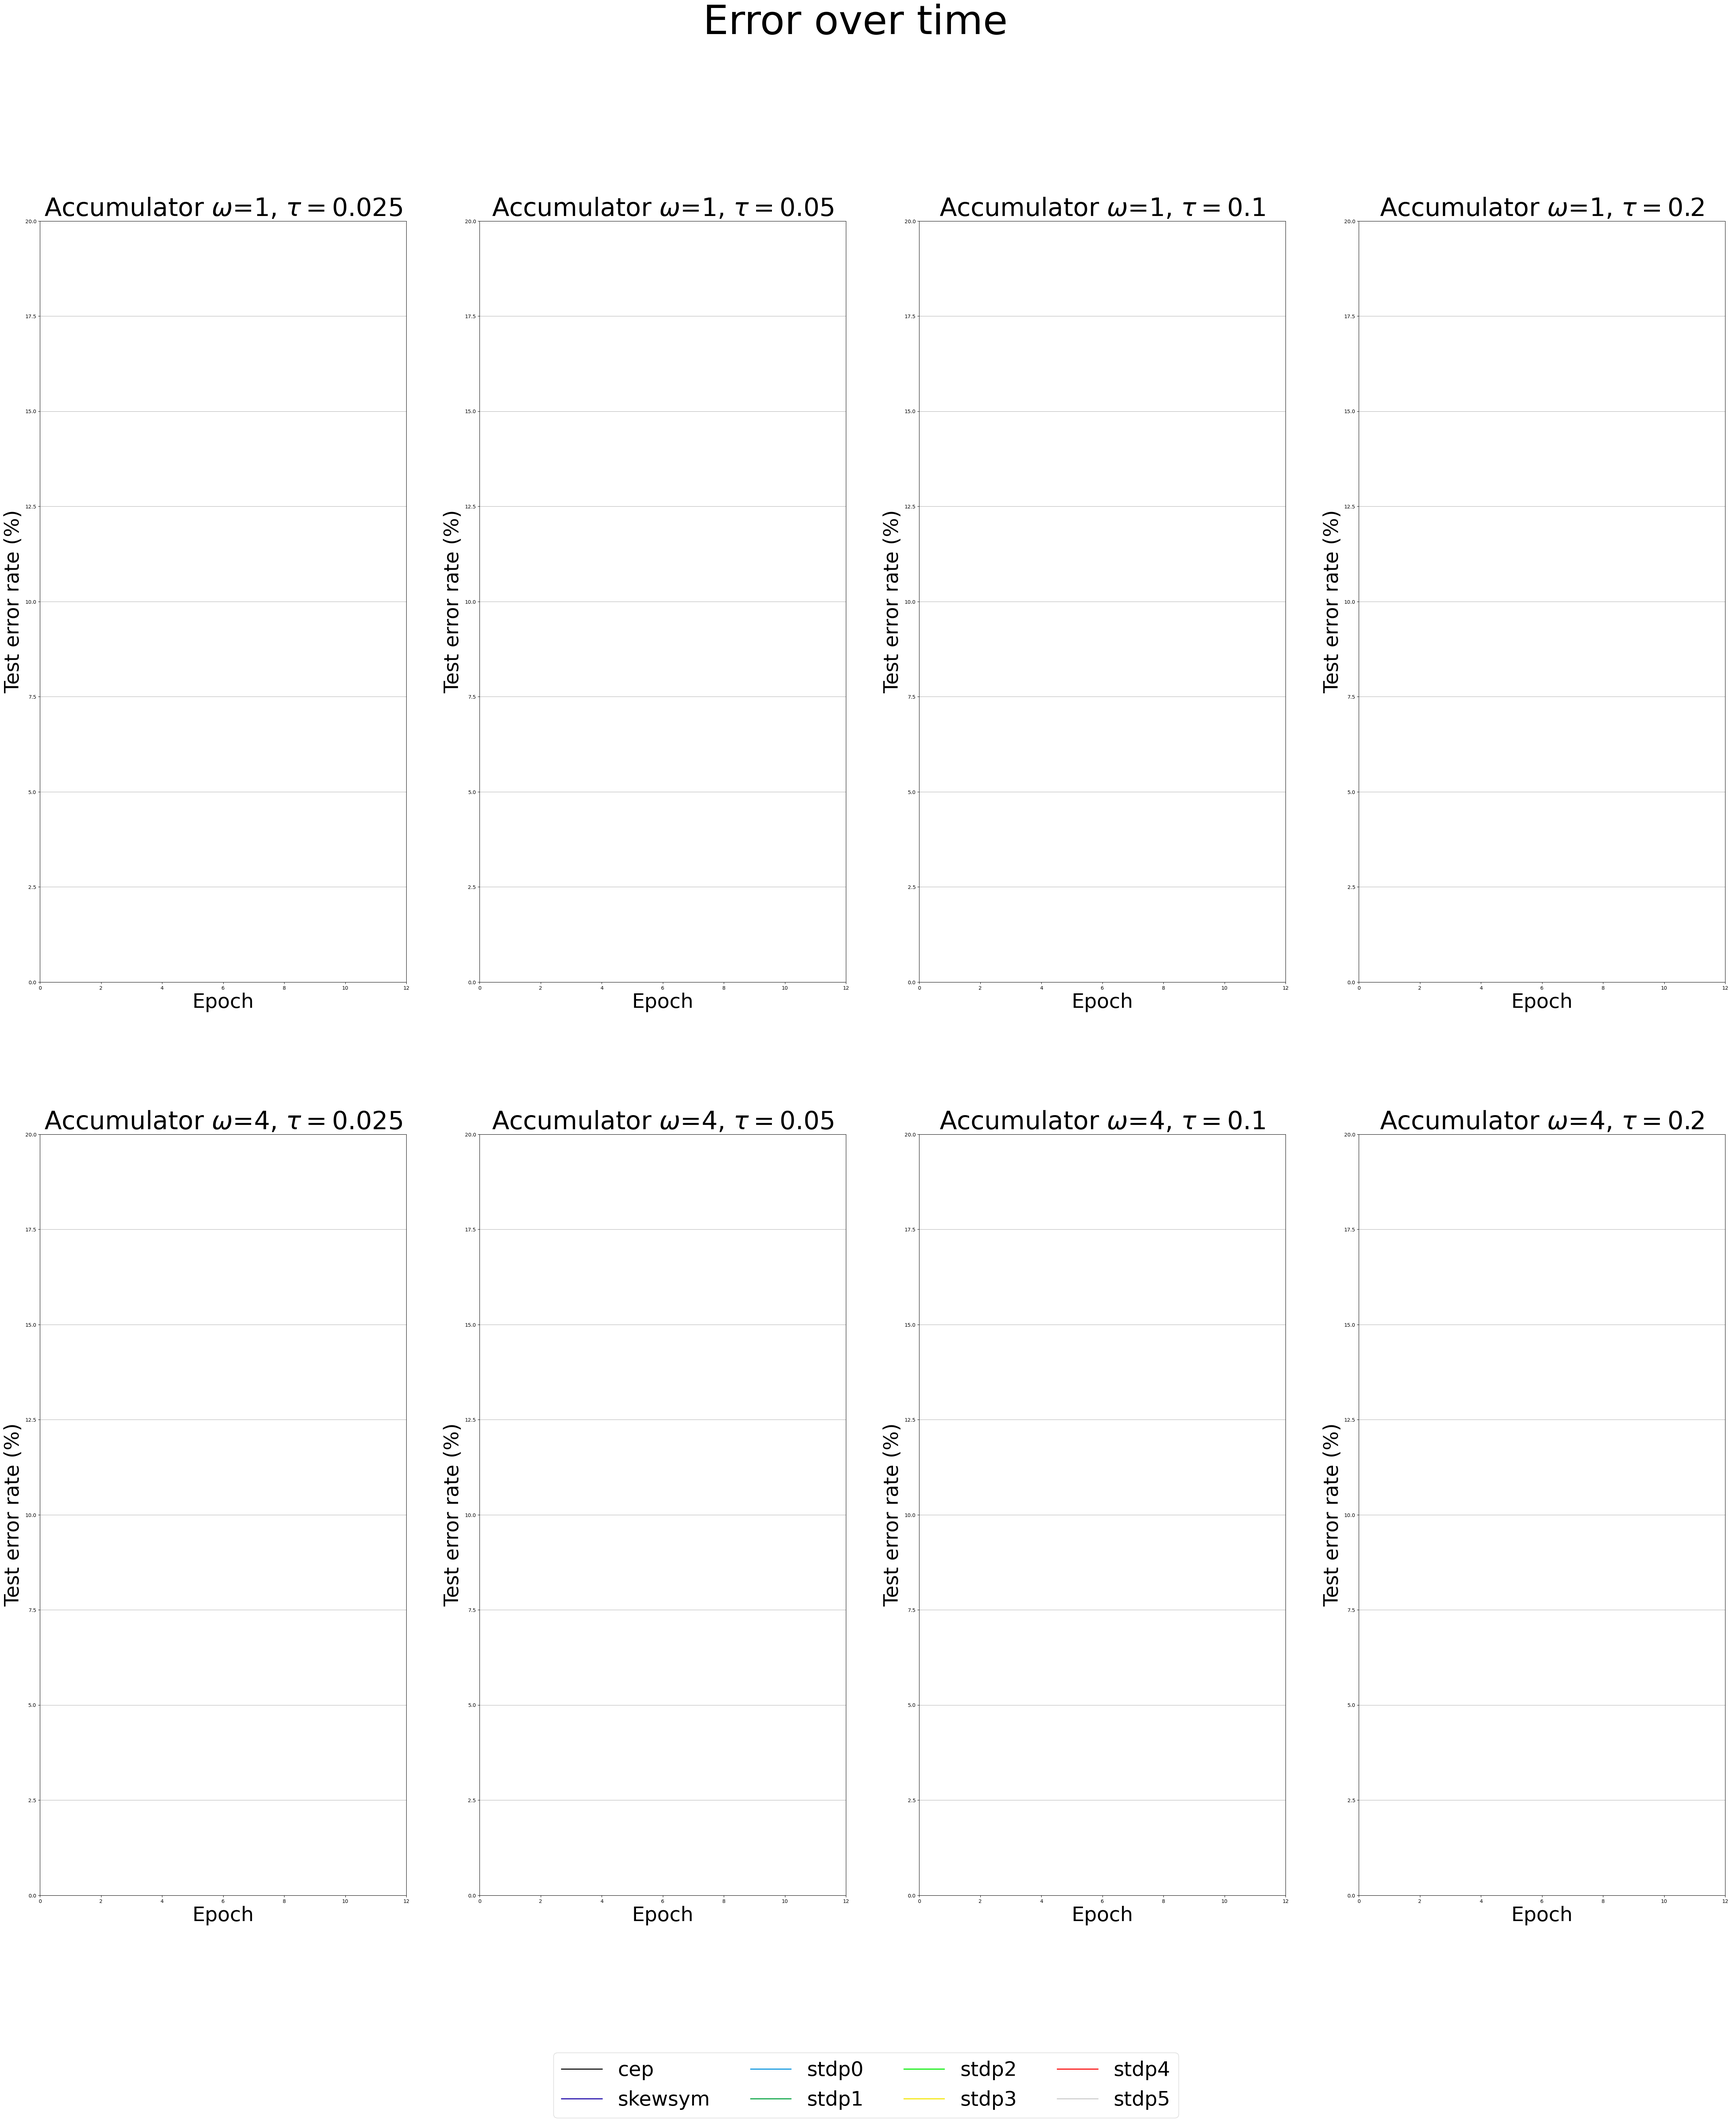
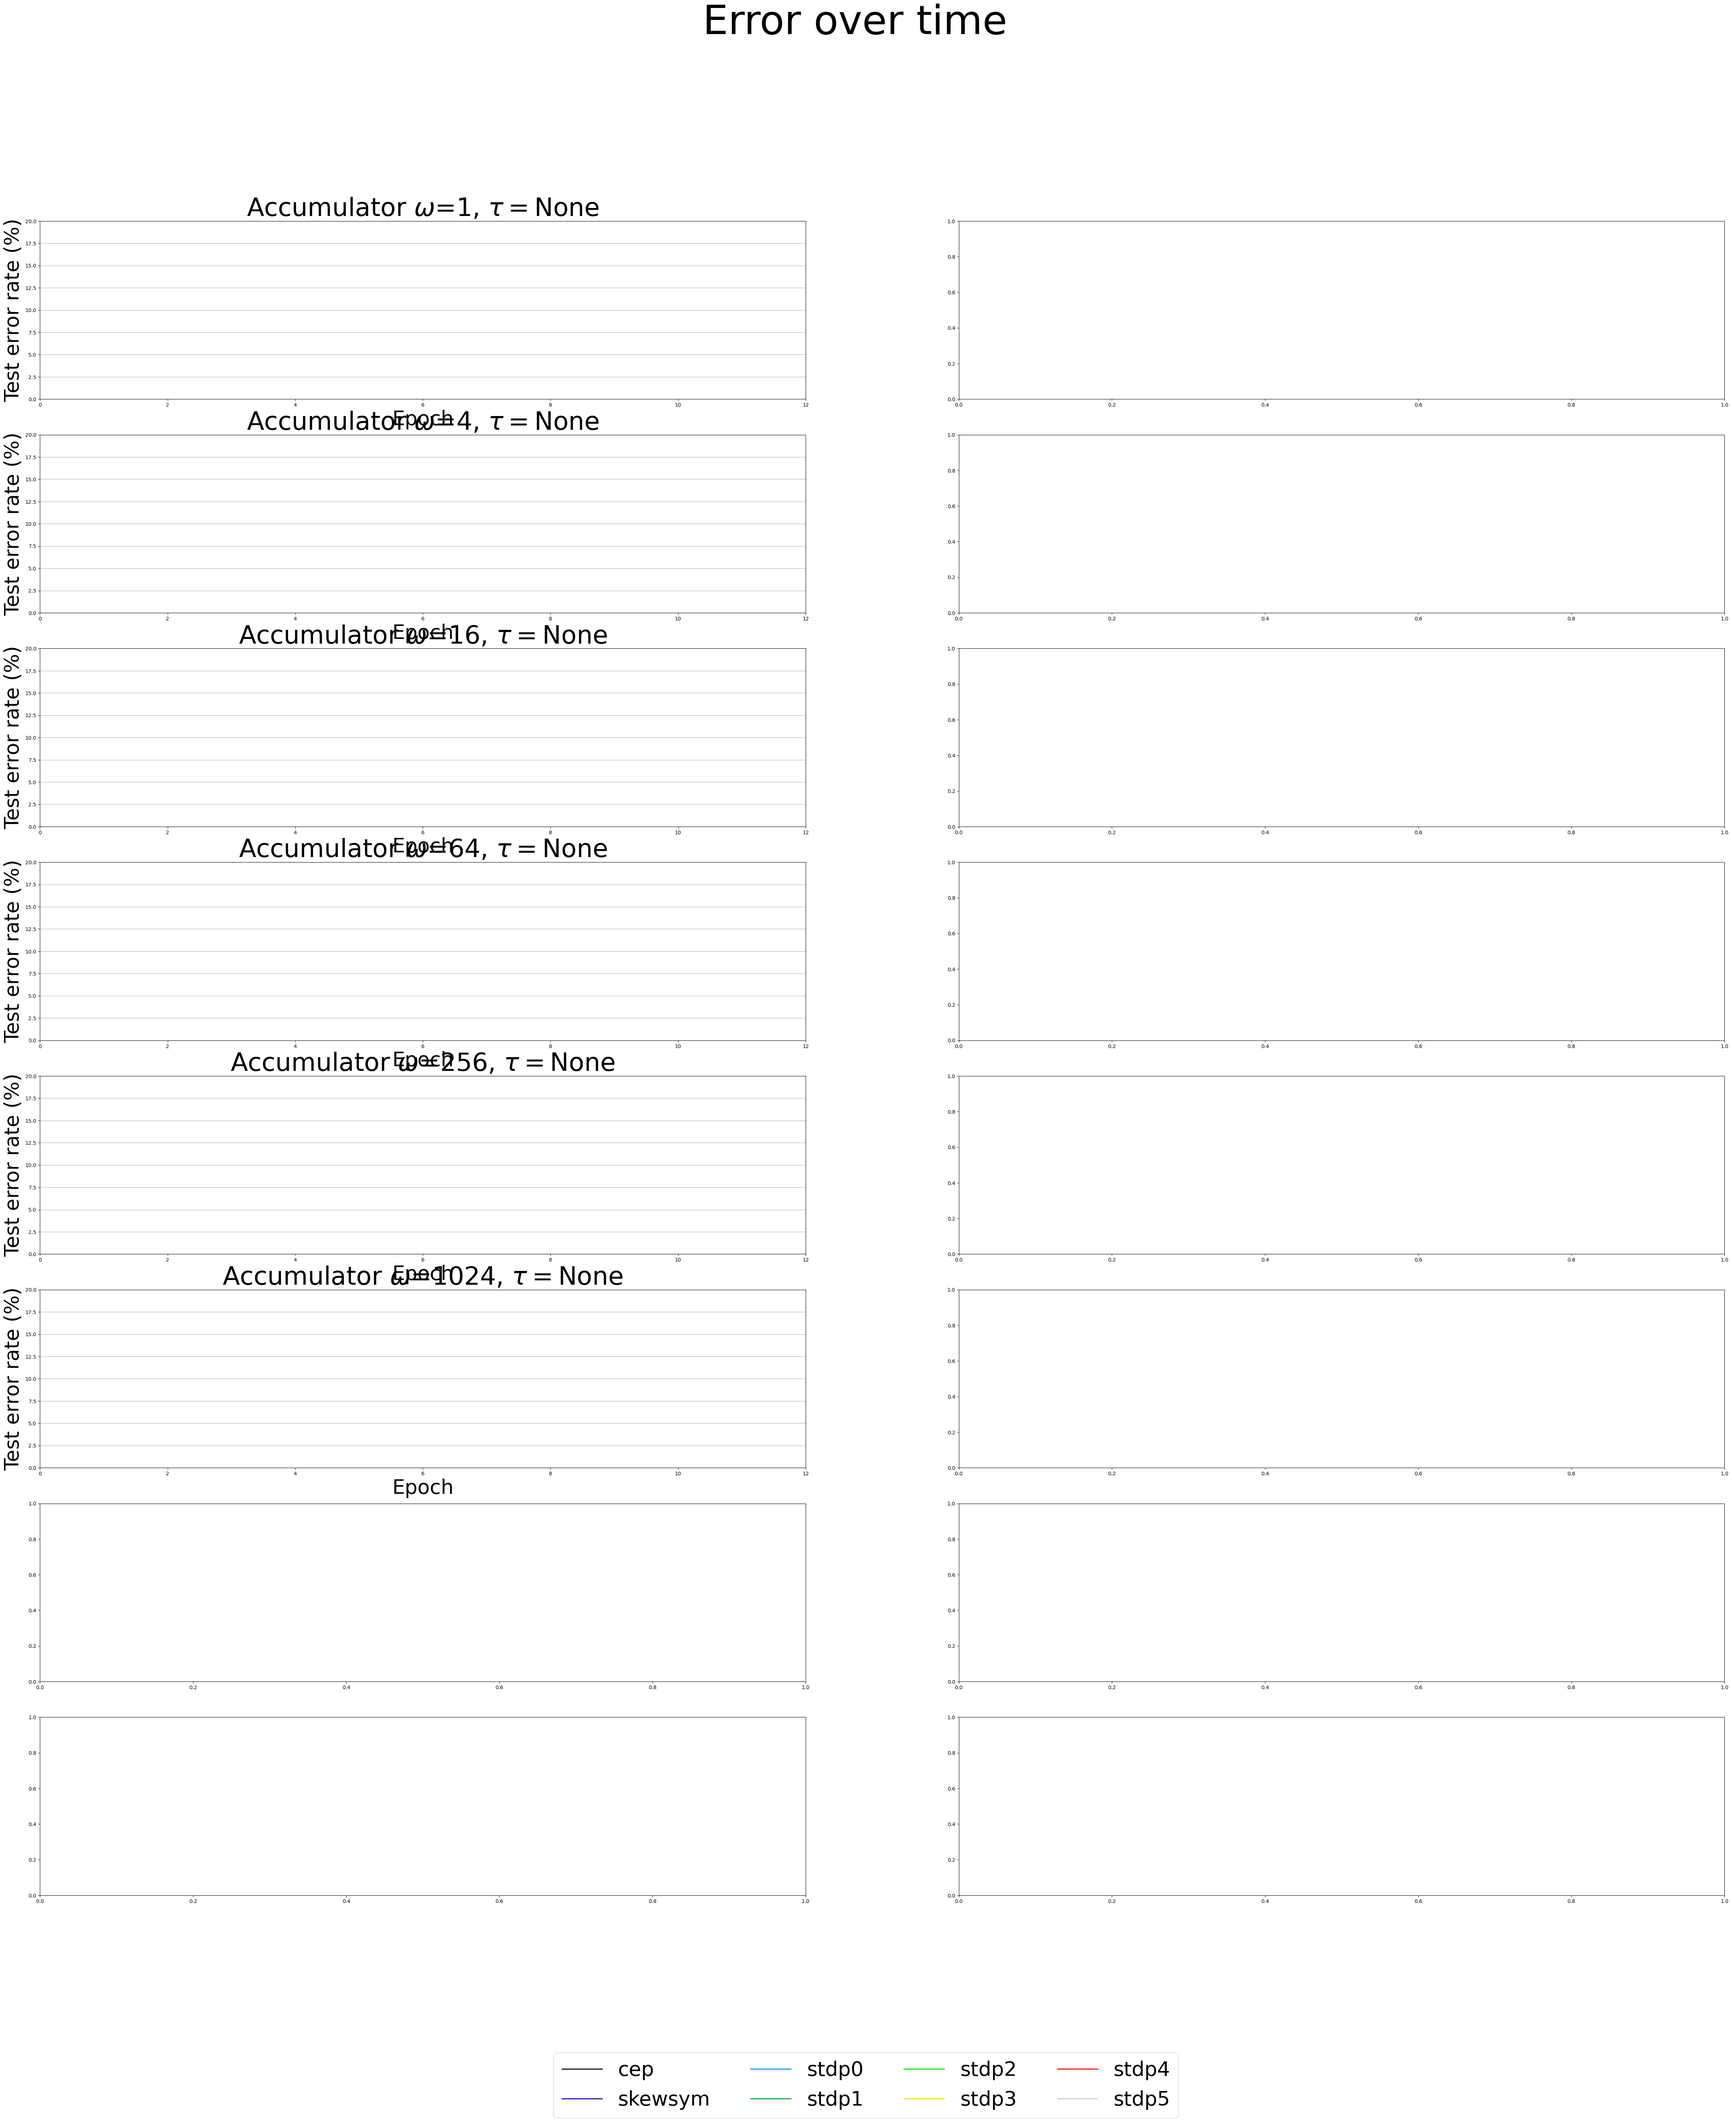
wip

diff --git a/graph.py b/graph.py
@@ -114,7 +114,7 @@ fig.legend(spike_methods, loc='lower center', ncol=len(spike_methods)//2, bbox_t
 fig.savefig(args.directory+"/test2.png",bbox_inches="tight")
 '''
 
-'''
+
 fig, ax = plt.subplots(2,4,figsize=(60,60))
 # omegas=[1,4,16,64,256,1024]
 # omegas=[0.8,1,2,3,15,63,255,1023]
@@ -154,7 +154,7 @@ fig.suptitle(title,fontsize=80)
 fig.legend(Ms, loc='lower center', ncol=len(rules)//2, bbox_transform=fig.transFigure,fontsize=40)
 # fig.savefig(args.directory+"/accumulator_"+tail_str+".png",bbox_inches="tight")
 fig.savefig(args.directory+"/compare_M.png",bbox_inches="tight")
-'''
+
 
 
 
